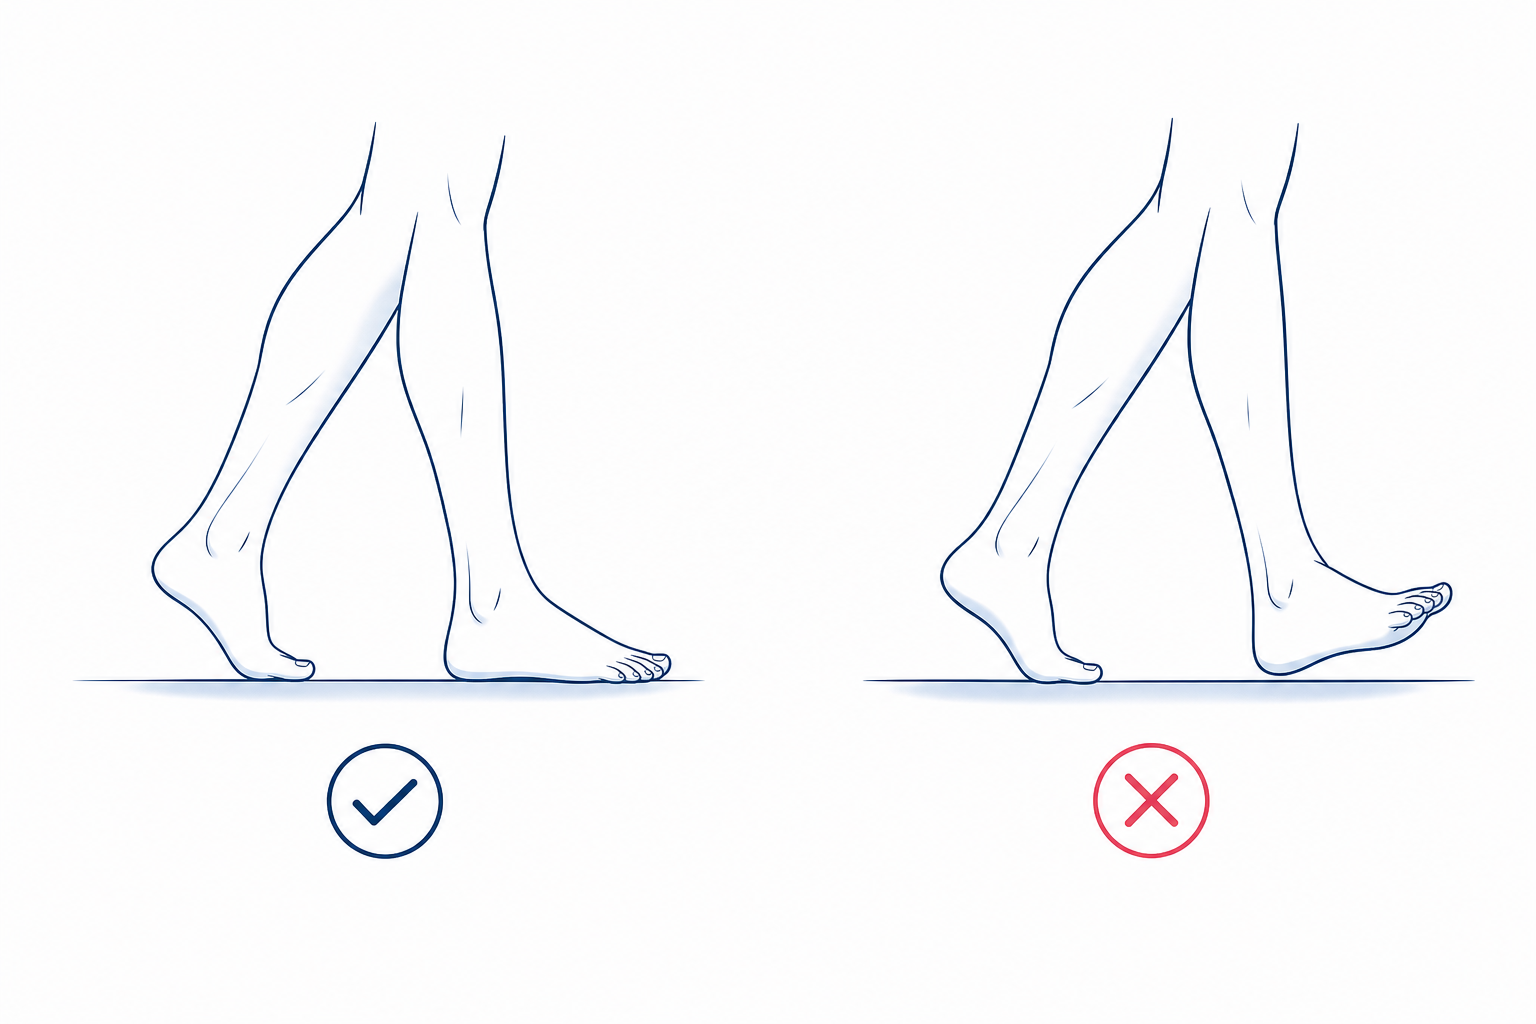
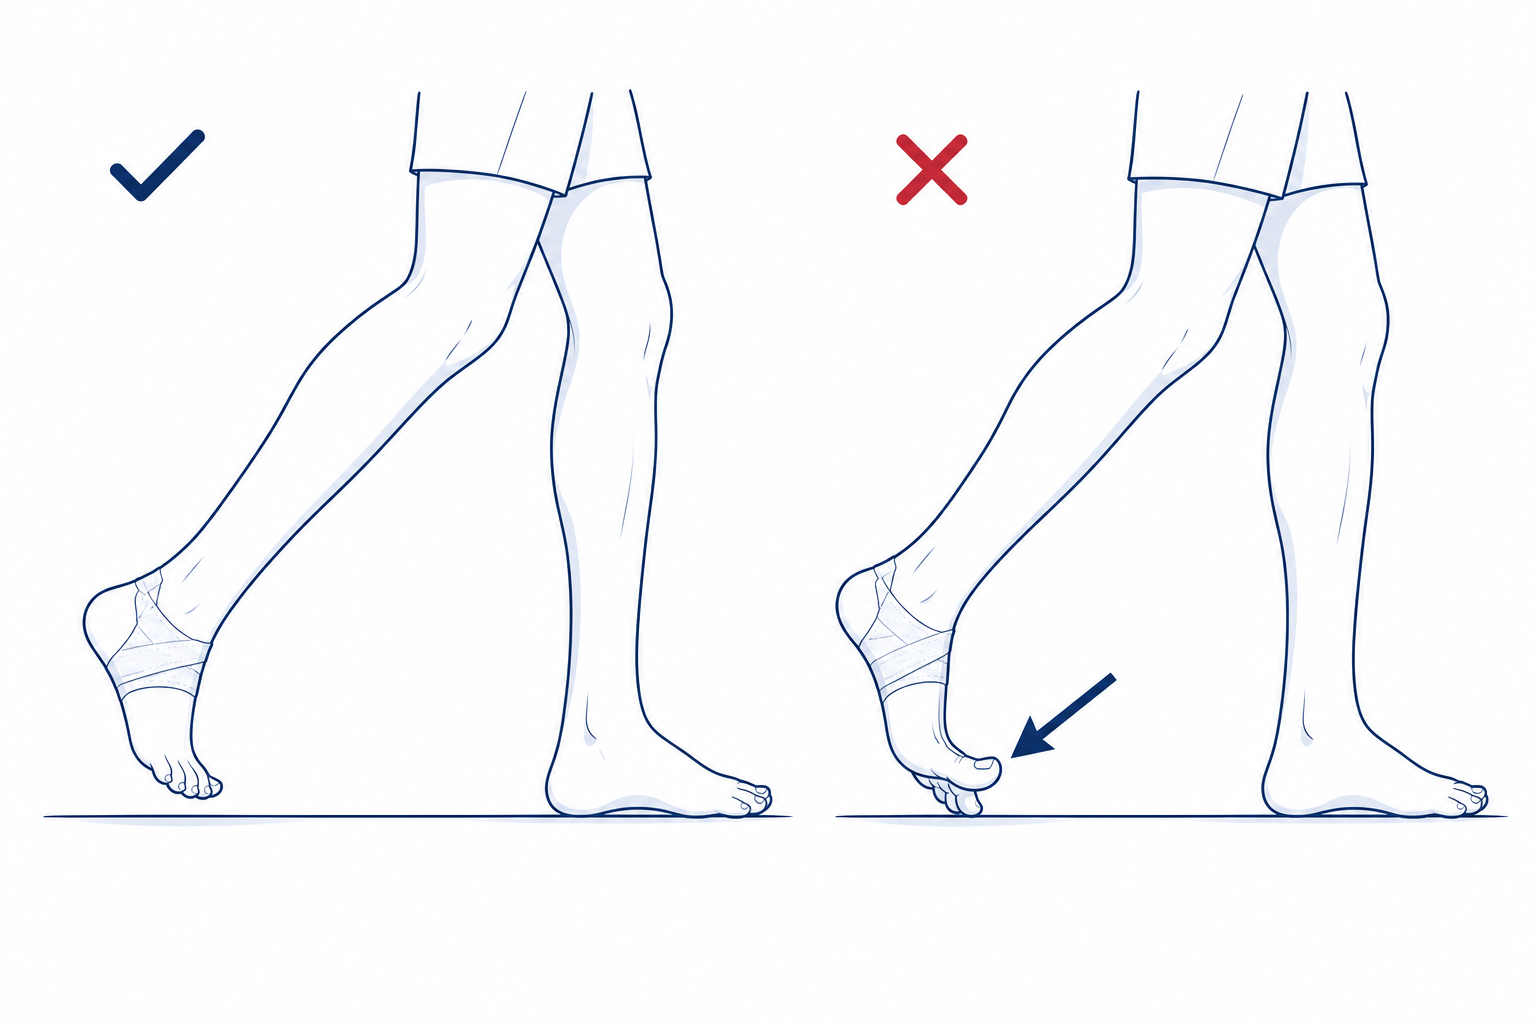
Fix walking illustration: focus on back foot MTP dorsiflexion (push-off), with arrow indicator

diff --git a/docs/patient/hallux-valgus.md b/docs/patient/hallux-valgus.md
@@ -128,8 +128,8 @@
 ### 6-3. 歩き方：**足の裏全体で着地、つま先で蹴り出さない**
 
 <figure class="figure-schema" markdown>
-![歩き方ルール：足底全体接地 OK、踏み返し NG](../assets/images/walking-no-pushoff.png)
-<figcaption>左：足の裏全体で接地する歩き方（OK）　／　右：つま先で蹴り出す「踏み返し」（NG） — 矯正した骨に負担をかけないため、最初の 6 週間は踏み返しを避けてください。</figcaption>
+![踏み返しを避ける歩き方](../assets/images/walking-no-pushoff.png)
+<figcaption>左：手術した足を後ろから持ち上げるとき、**足の裏全体で地面から離れる**（OK）　／　右：つま先（親指の付け根）が反って、最後に蹴り出してしまう「**踏み返し**」（NG・矢印部分） — 矯正した骨に負担をかけないため、最初の 6 週間は踏み返しを避けてください。</figcaption>
 </figure>
 
 !!! warning "歩き方ルール"